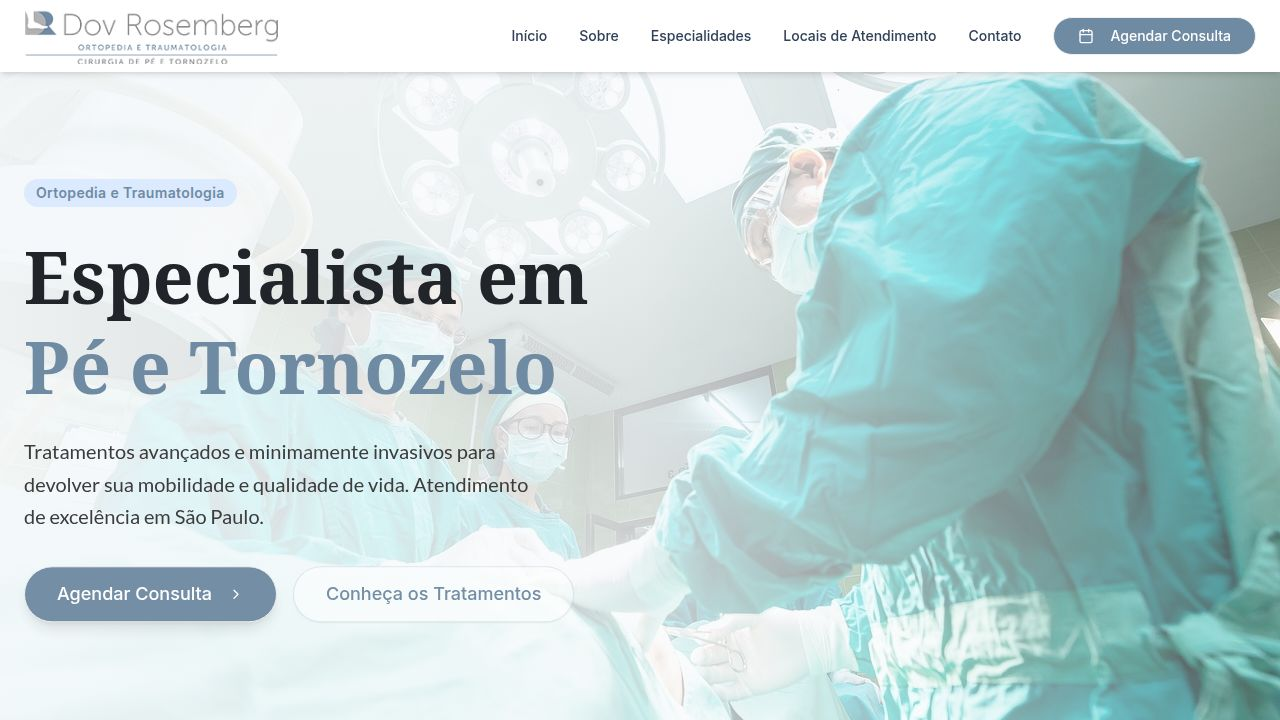
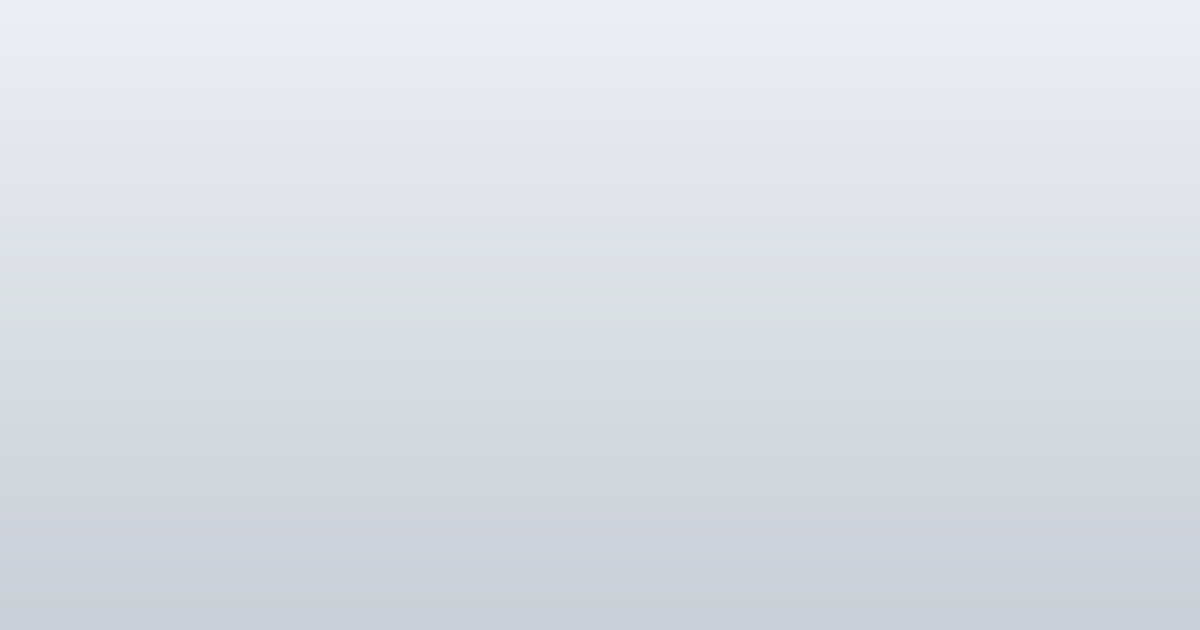
fix: substitui opengraph do template por placeholder neutro
O template carregava um print do site do Dr. Dov como opengraph.jpg,
que vinha contaminando os sites derivados. Placeholder neutro no lugar
e referência apontando para o arquivo que existe.

diff --git a/client/index.html b/client/index.html
@@ -10,7 +10,7 @@
     <meta property="og:title" content="Dr(a). Nome | Especialidade Medica" />
     <meta property="og:description" content="Especialista em [especialidade]. Agende sua consulta." />
     <meta property="og:type" content="website" />
-    <meta property="og:image" content="/images/opengraph.png" />
+    <meta property="og:image" content="/opengraph.jpg" />
     <meta name="twitter:card" content="summary_large_image" />
     <meta name="twitter:title" content="Dr(a). Nome | Especialidade Medica" />
     <meta name="twitter:description" content="Especialista em [especialidade]. Atendimento humanizado." />
